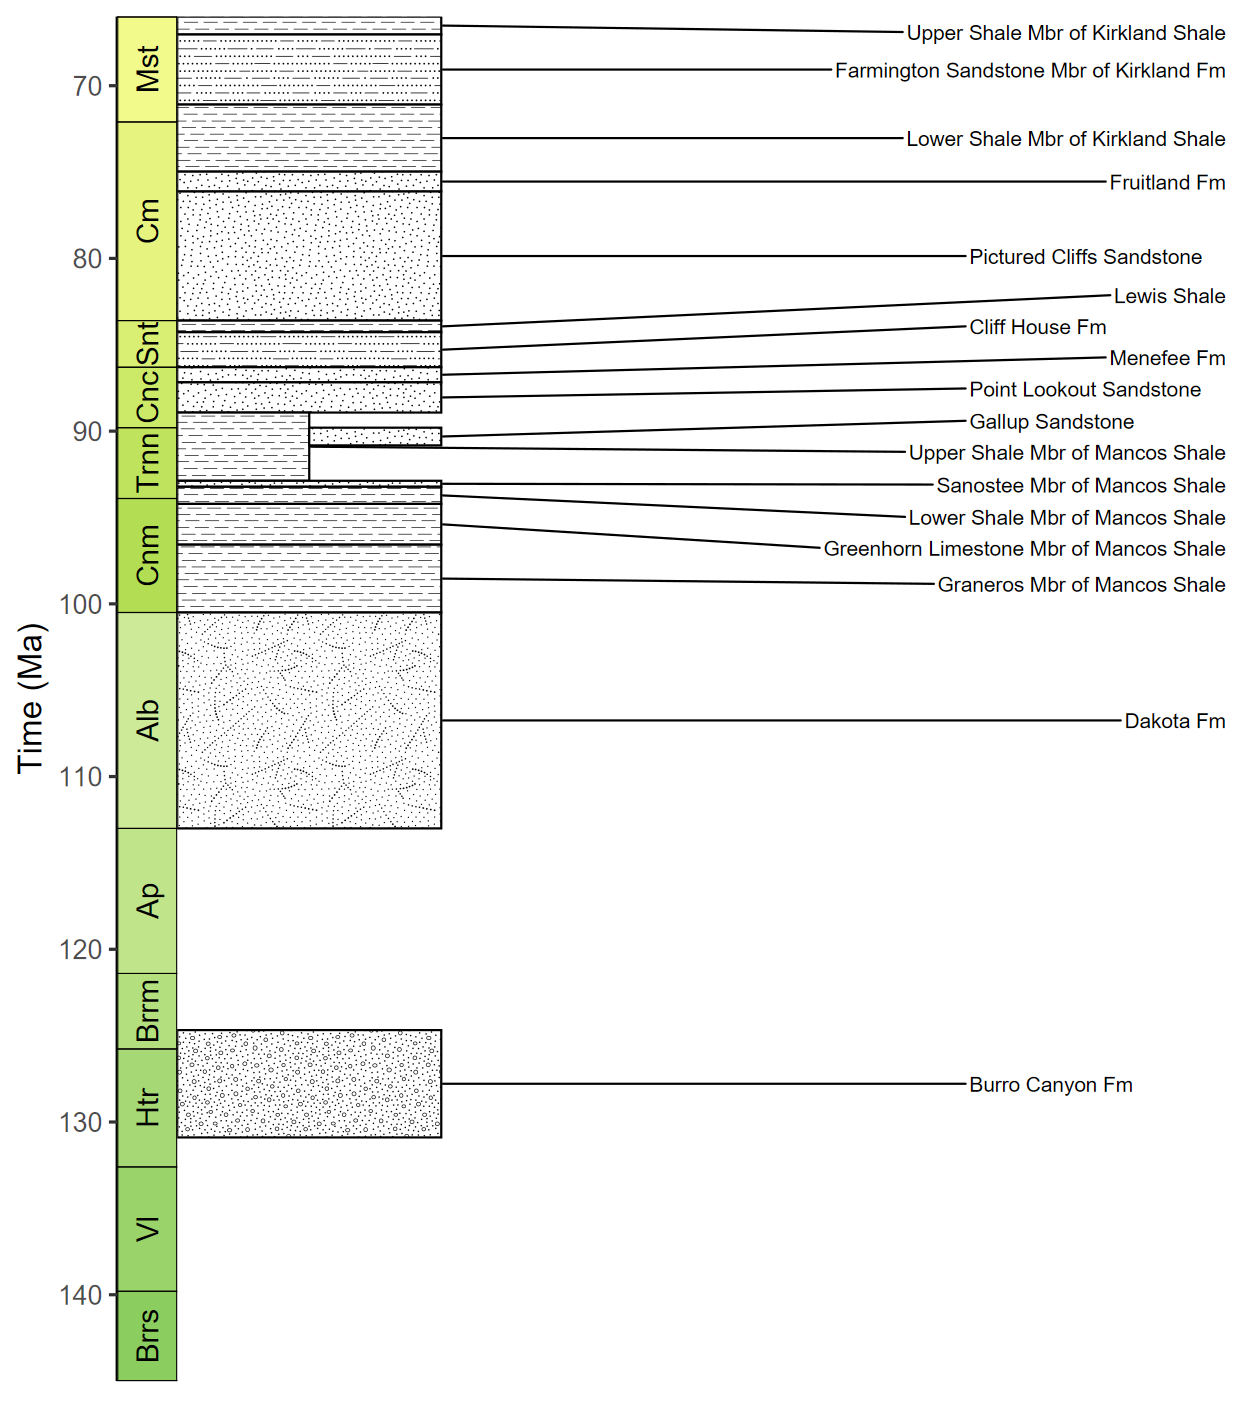
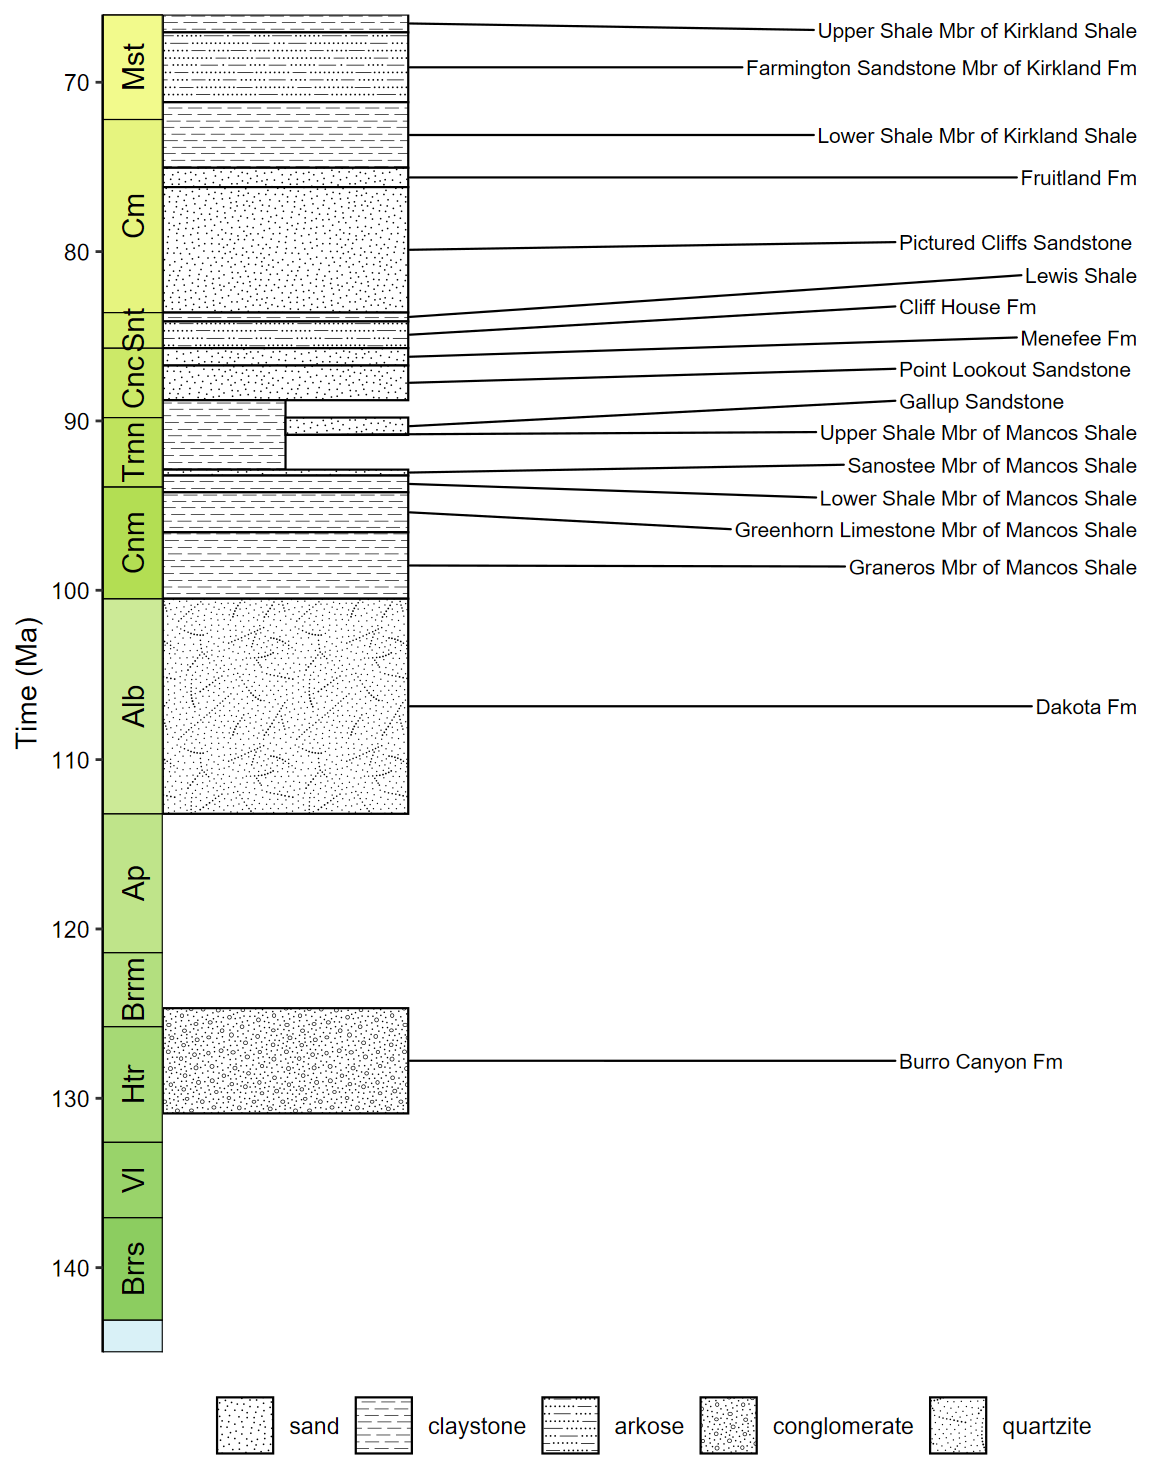
Add legend to patterns example in README

diff --git a/README.md b/README.md
@@ -171,23 +171,24 @@ ggplot(san_juan_units, aes(ymin = b_age, ymax = t_age,
                            xmin = x_min, xmax = x_max)) +
   # Plot units, patterned by rock type
   geom_rect(aes(fill = pattern), color = "black") +
-  scale_fill_geopattern() +
+  scale_fill_geopattern(name = NULL,
+                        breaks = factor(liths$fill), labels = liths$name) +
   # Add text labels
   geom_text_repel(aes(x = x_max, y = m_age, label = unit_name),
                   size = 3.5, hjust = 0, force = 2,
                   min.segment.length = 0, direction = "y",
                   nudge_x = rep_len(x = c(2, 3), length.out = 17)) +
+  # Add geological time scale
+  coord_geo(pos = "left", dat = list("stages"), rot = 90) +
   # Reverse direction of y-axis
   scale_y_reverse(limits = c(145, 66), n.breaks = 10, name = "Time (Ma)") +
-  # Theming
-  theme_classic(base_size = 16) +
-  theme(legend.position = "none",
-        axis.line.x = element_blank(),
-        axis.title.x = element_blank(),
-        axis.text.x = element_blank(),
-        axis.ticks.x = element_blank()) +
-  # Add geological time scale
-  coord_geo(pos = "left", dat = list("stages"), rot = 90)
+  # Remove x-axis guide and title
+  scale_x_continuous(NULL, guide = NULL) +
+  # Choose theme and font size
+  theme_classic(base_size = 14) +
+  # Make tick labels black
+  theme(legend.position = "bottom", legend.key.size = unit(1, 'cm'),
+        axis.text.y = element_text(color = "black"))
 ```
 
 <img src="man/figures/example_patterns.png">
